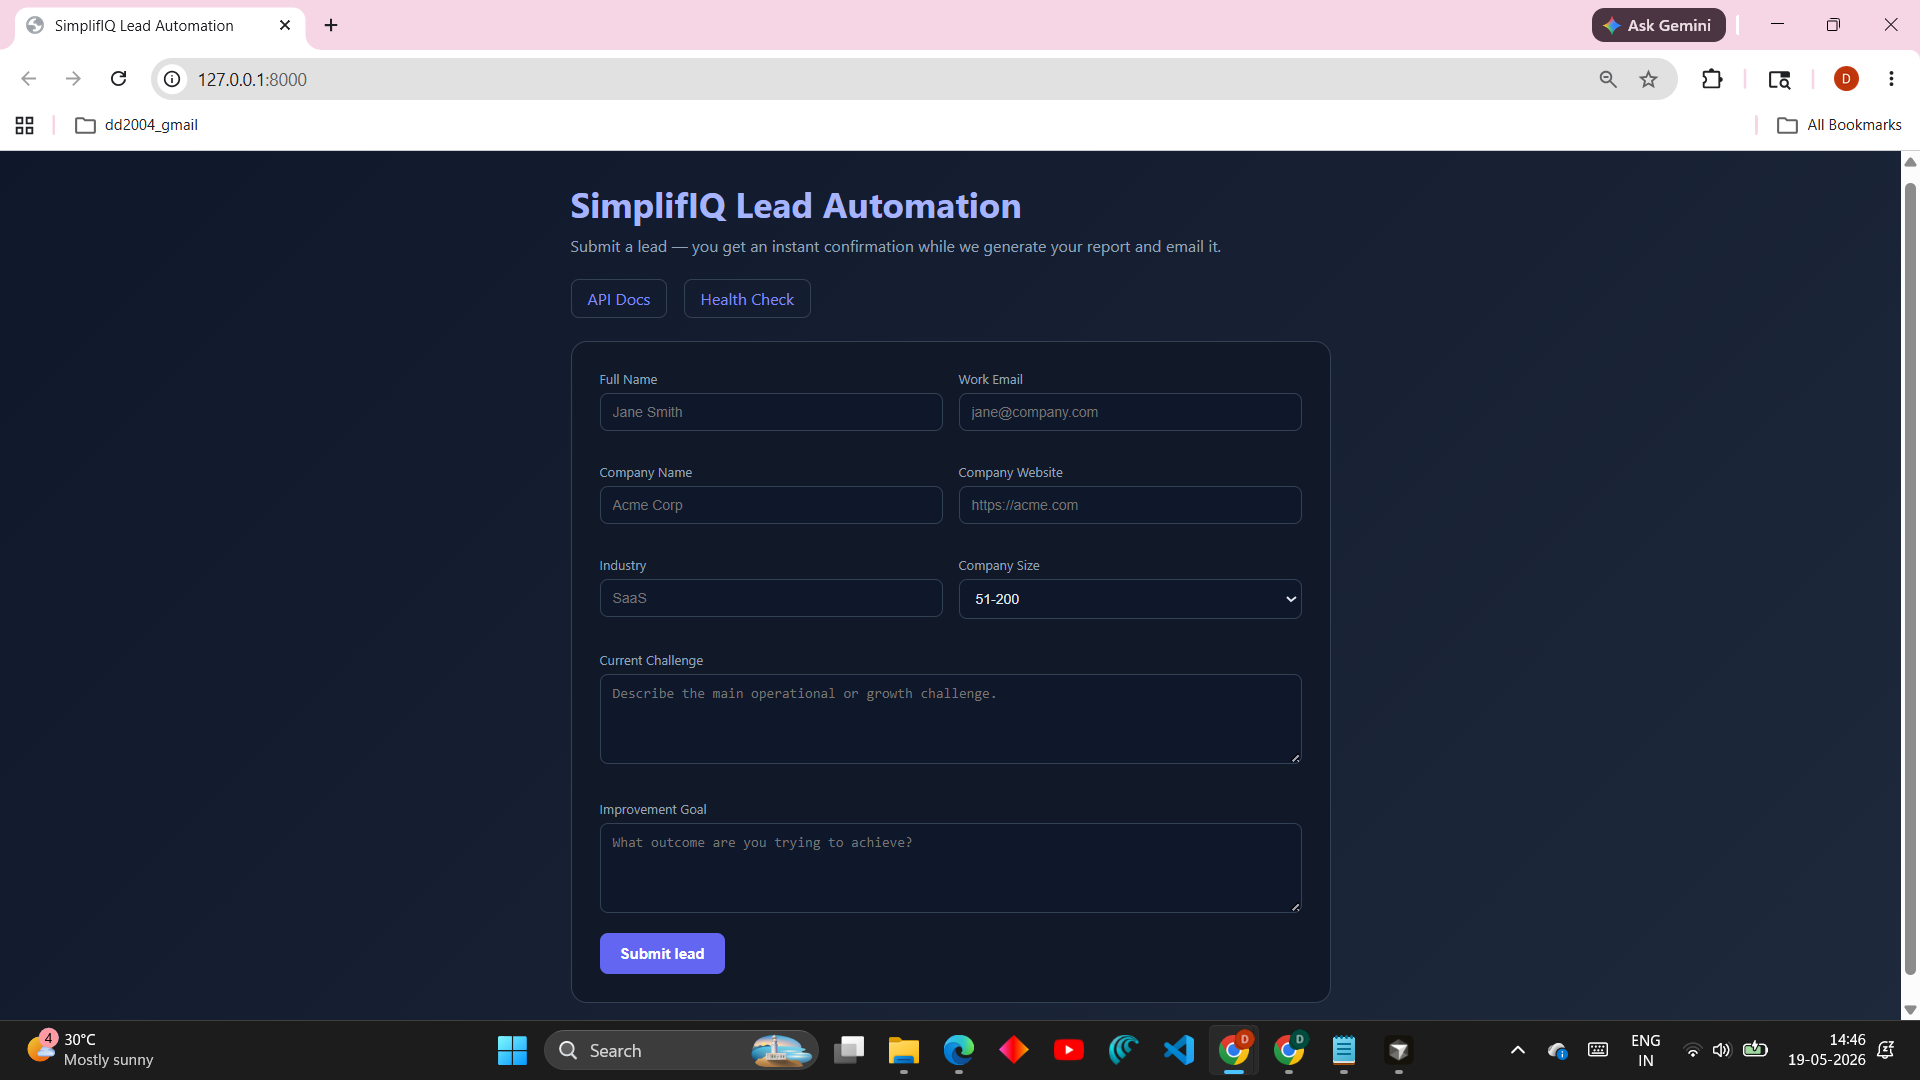
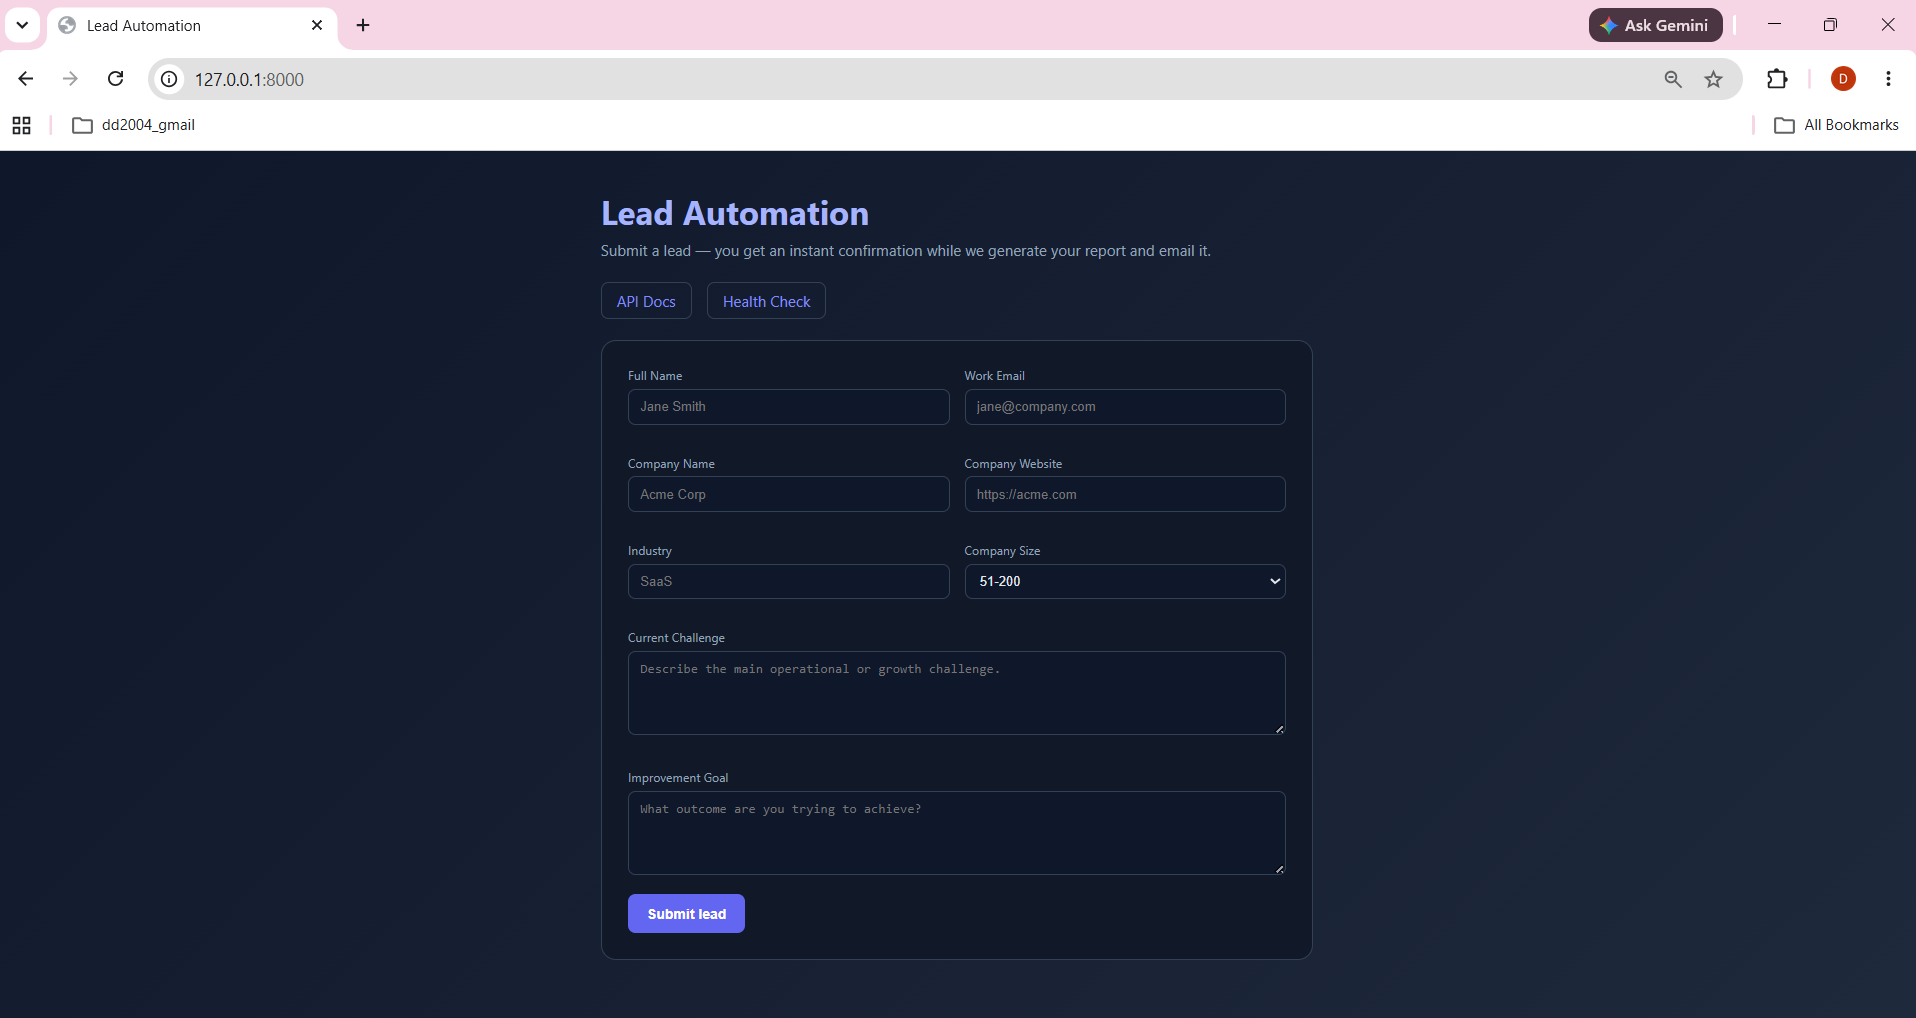
.

diff --git a/main.py b/main.py
@@ -20,7 +20,7 @@ logging.basicConfig(
 )
 
 app = FastAPI(
-    title="SimplifIQ Lead Automation API",
+    title="Lead Automation API",
     description="Automated lead enrichment, AI report generation, and email delivery.",
     version="1.0.0",
     docs_url="/docs",
@@ -46,7 +46,7 @@ async def landing():
     <head>
         <meta charset="UTF-8">
         <meta name="viewport" content="width=device-width, initial-scale=1.0">
-        <title>SimplifIQ Lead Automation</title>
+        <title>Lead Automation</title>
         <style>
             * { box-sizing: border-box; margin: 0; padding: 0; }
             body {
@@ -100,7 +100,7 @@ async def landing():
     </head>
     <body>
         <div class="container">
-            <h1>SimplifIQ Lead Automation</h1>
+            <h1>Lead Automation</h1>
             <p class="subtitle">Submit a lead — you get an instant confirmation while we generate your report and email it.</p>
             <div class="links">
                 <a href="/docs">API Docs</a>

diff --git a/app/services/email_sender.py b/app/services/email_sender.py
@@ -50,7 +50,7 @@ def send_report_email(
         f"Thank you for submitting your details.\n\n"
         f"Please find your personalized business insight report for {company_name} attached.\n\n"
         f"We look forward to connecting with you.\n\n"
-        f"Best regards,\nThe SimplifIQ Team"
+        f"Best regards,\nThe Team"
     )
 
     # Rich HTML email body
@@ -69,7 +69,7 @@ def send_report_email(
       </ul>
       <p>We'd love to discuss these insights further. Feel free to reply to this email
          or schedule a quick call.</p>
-      <p style="margin-top:24px;">Best regards,<br><strong>The SimplifIQ Team</strong></p>
+      <p style="margin-top:24px;">Best regards,<br><strong>The Team</strong></p>
     </body></html>
     """
 

diff --git a/README.md b/README.md
@@ -1,4 +1,4 @@
-# SimplifIQ Lead Automation
+# Lead Automation
 
 Automated lead intake: validate → scrape/enrich → AI report (HTML + PDF) → email → optional Google Sheets + Drive.
 
@@ -74,10 +74,6 @@ python -m uvicorn main:app --reload
 
 - **Form:** [http://127.0.0.1:8000](http://127.0.0.1:8000) — returns immediately after submit (HTTP 202).
 - **API docs:** [http://127.0.0.1:8000/docs](http://127.0.0.1:8000/docs)
-
-### Swagger API Documentation
-
-<img src="screenshots/swagger.png" width="900"/>
 
 ### 4. API behavior
 
